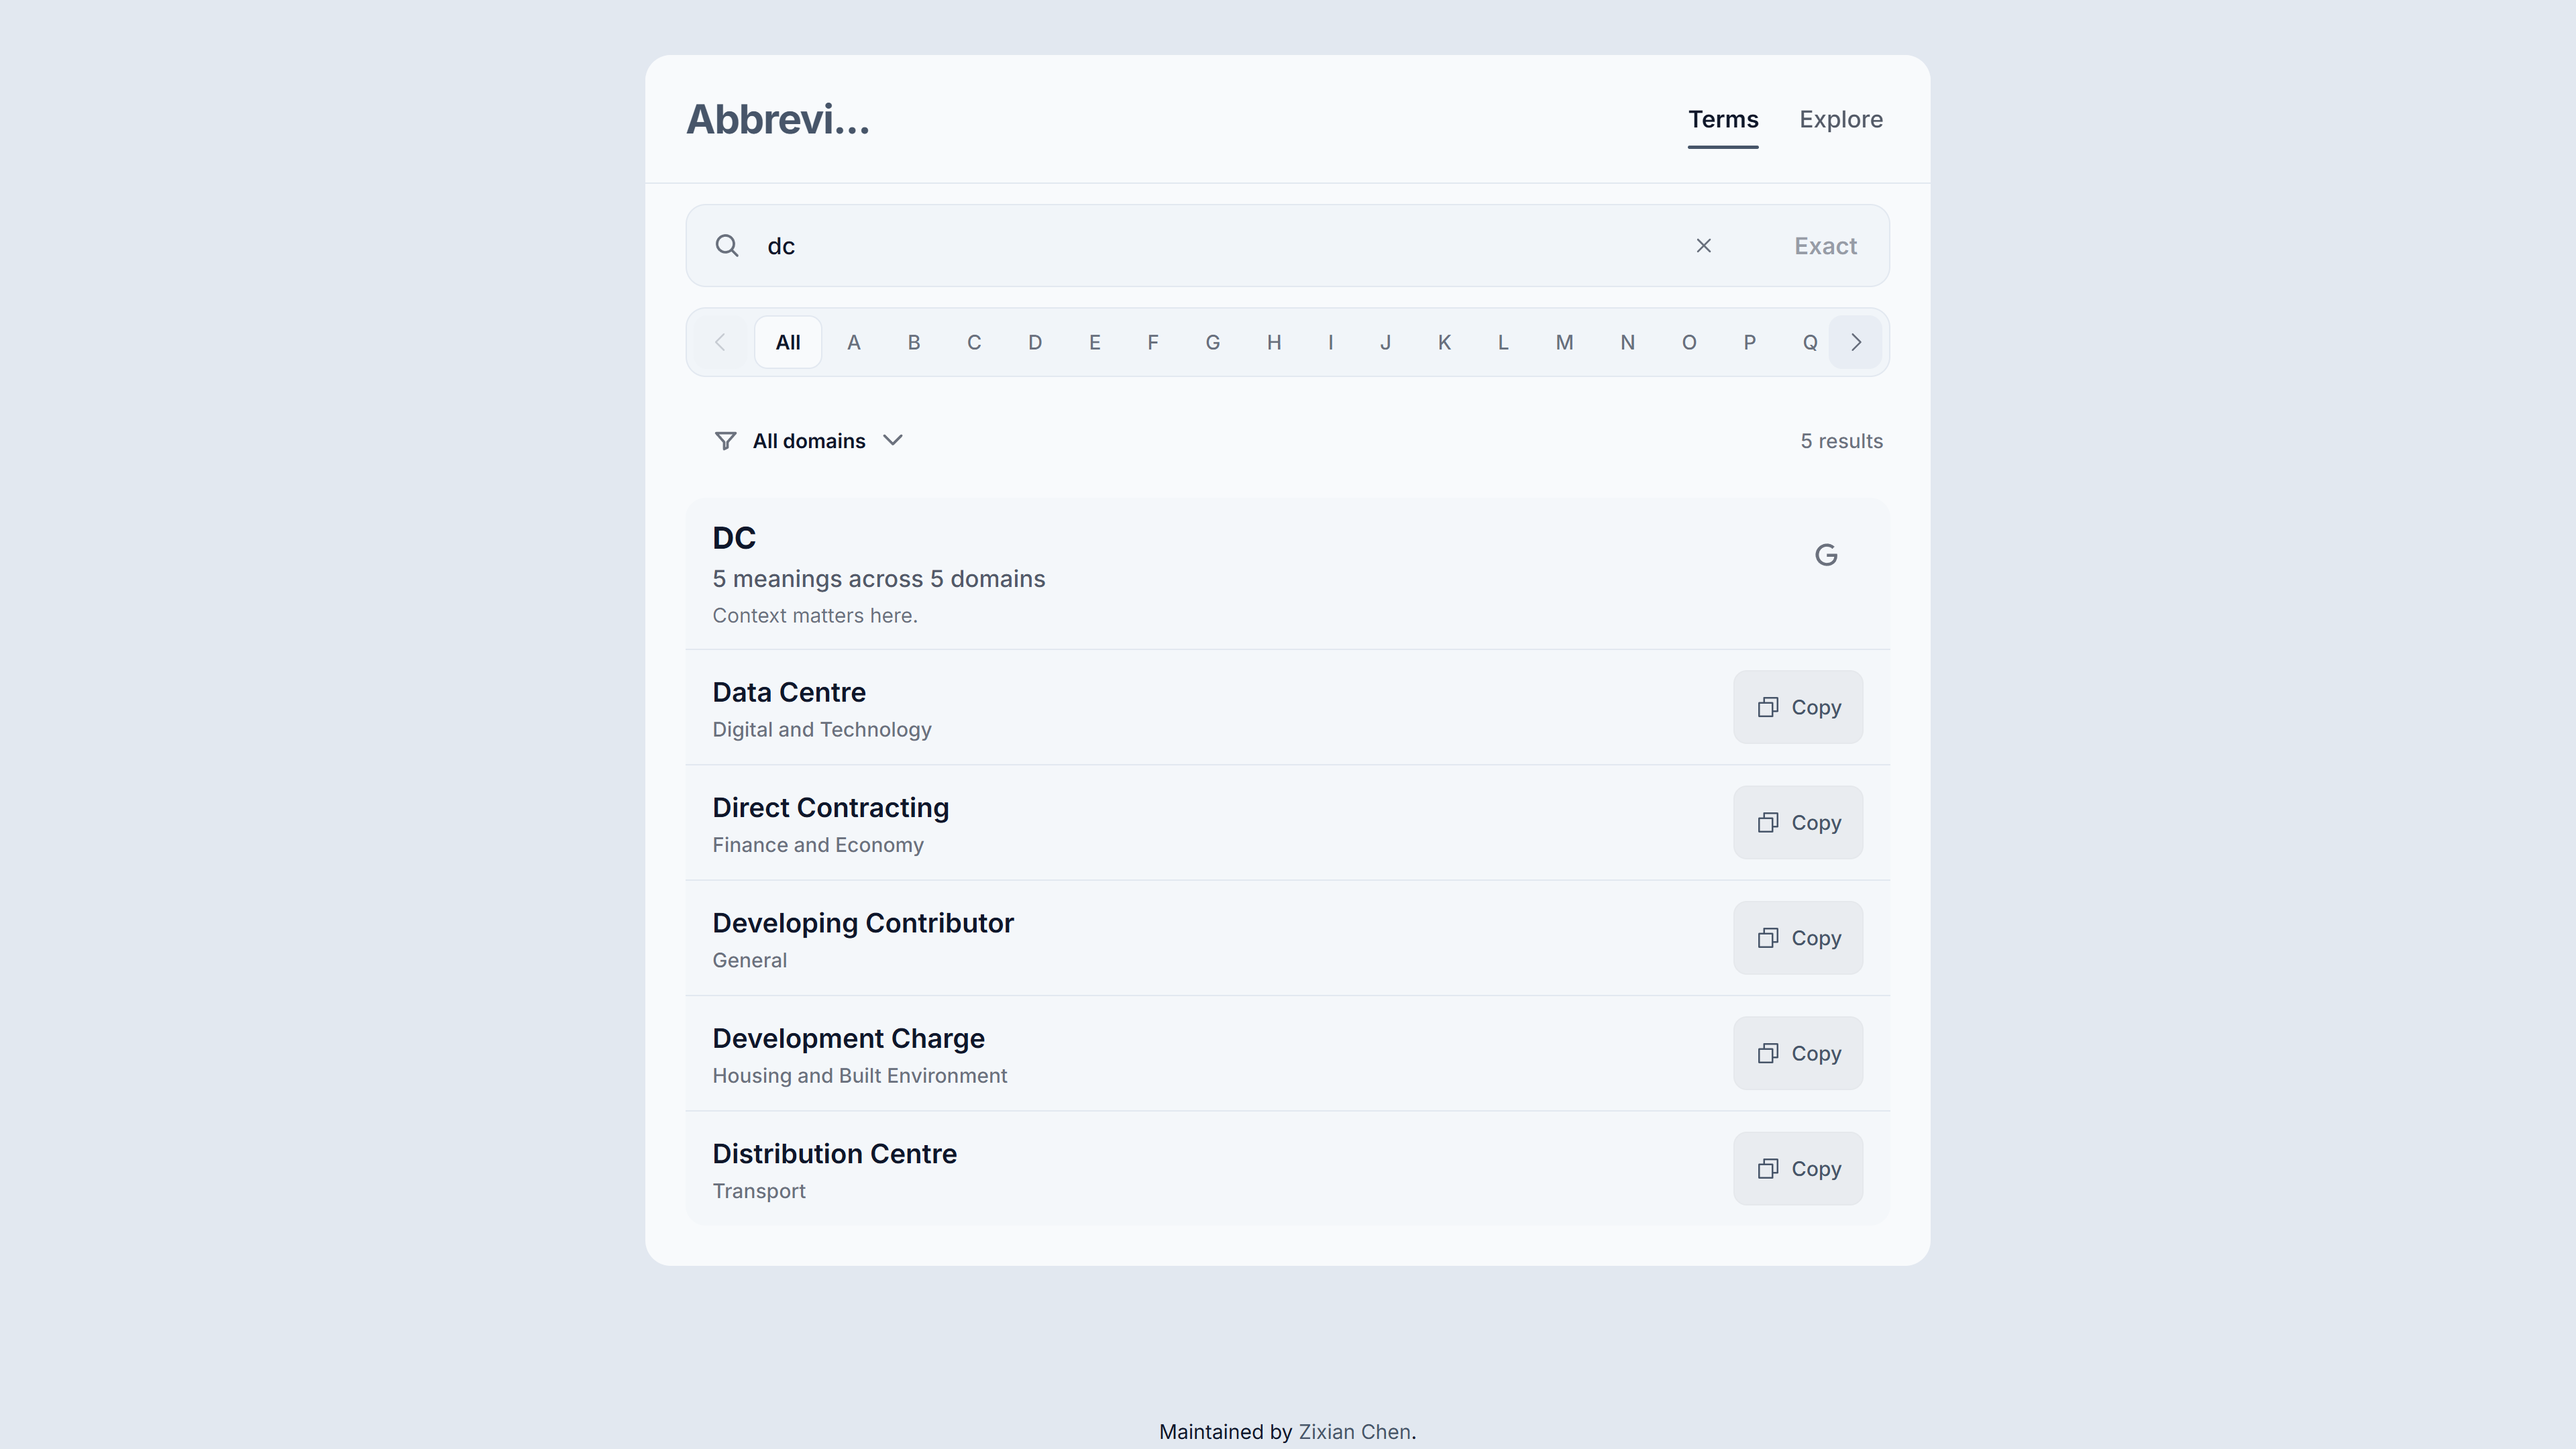
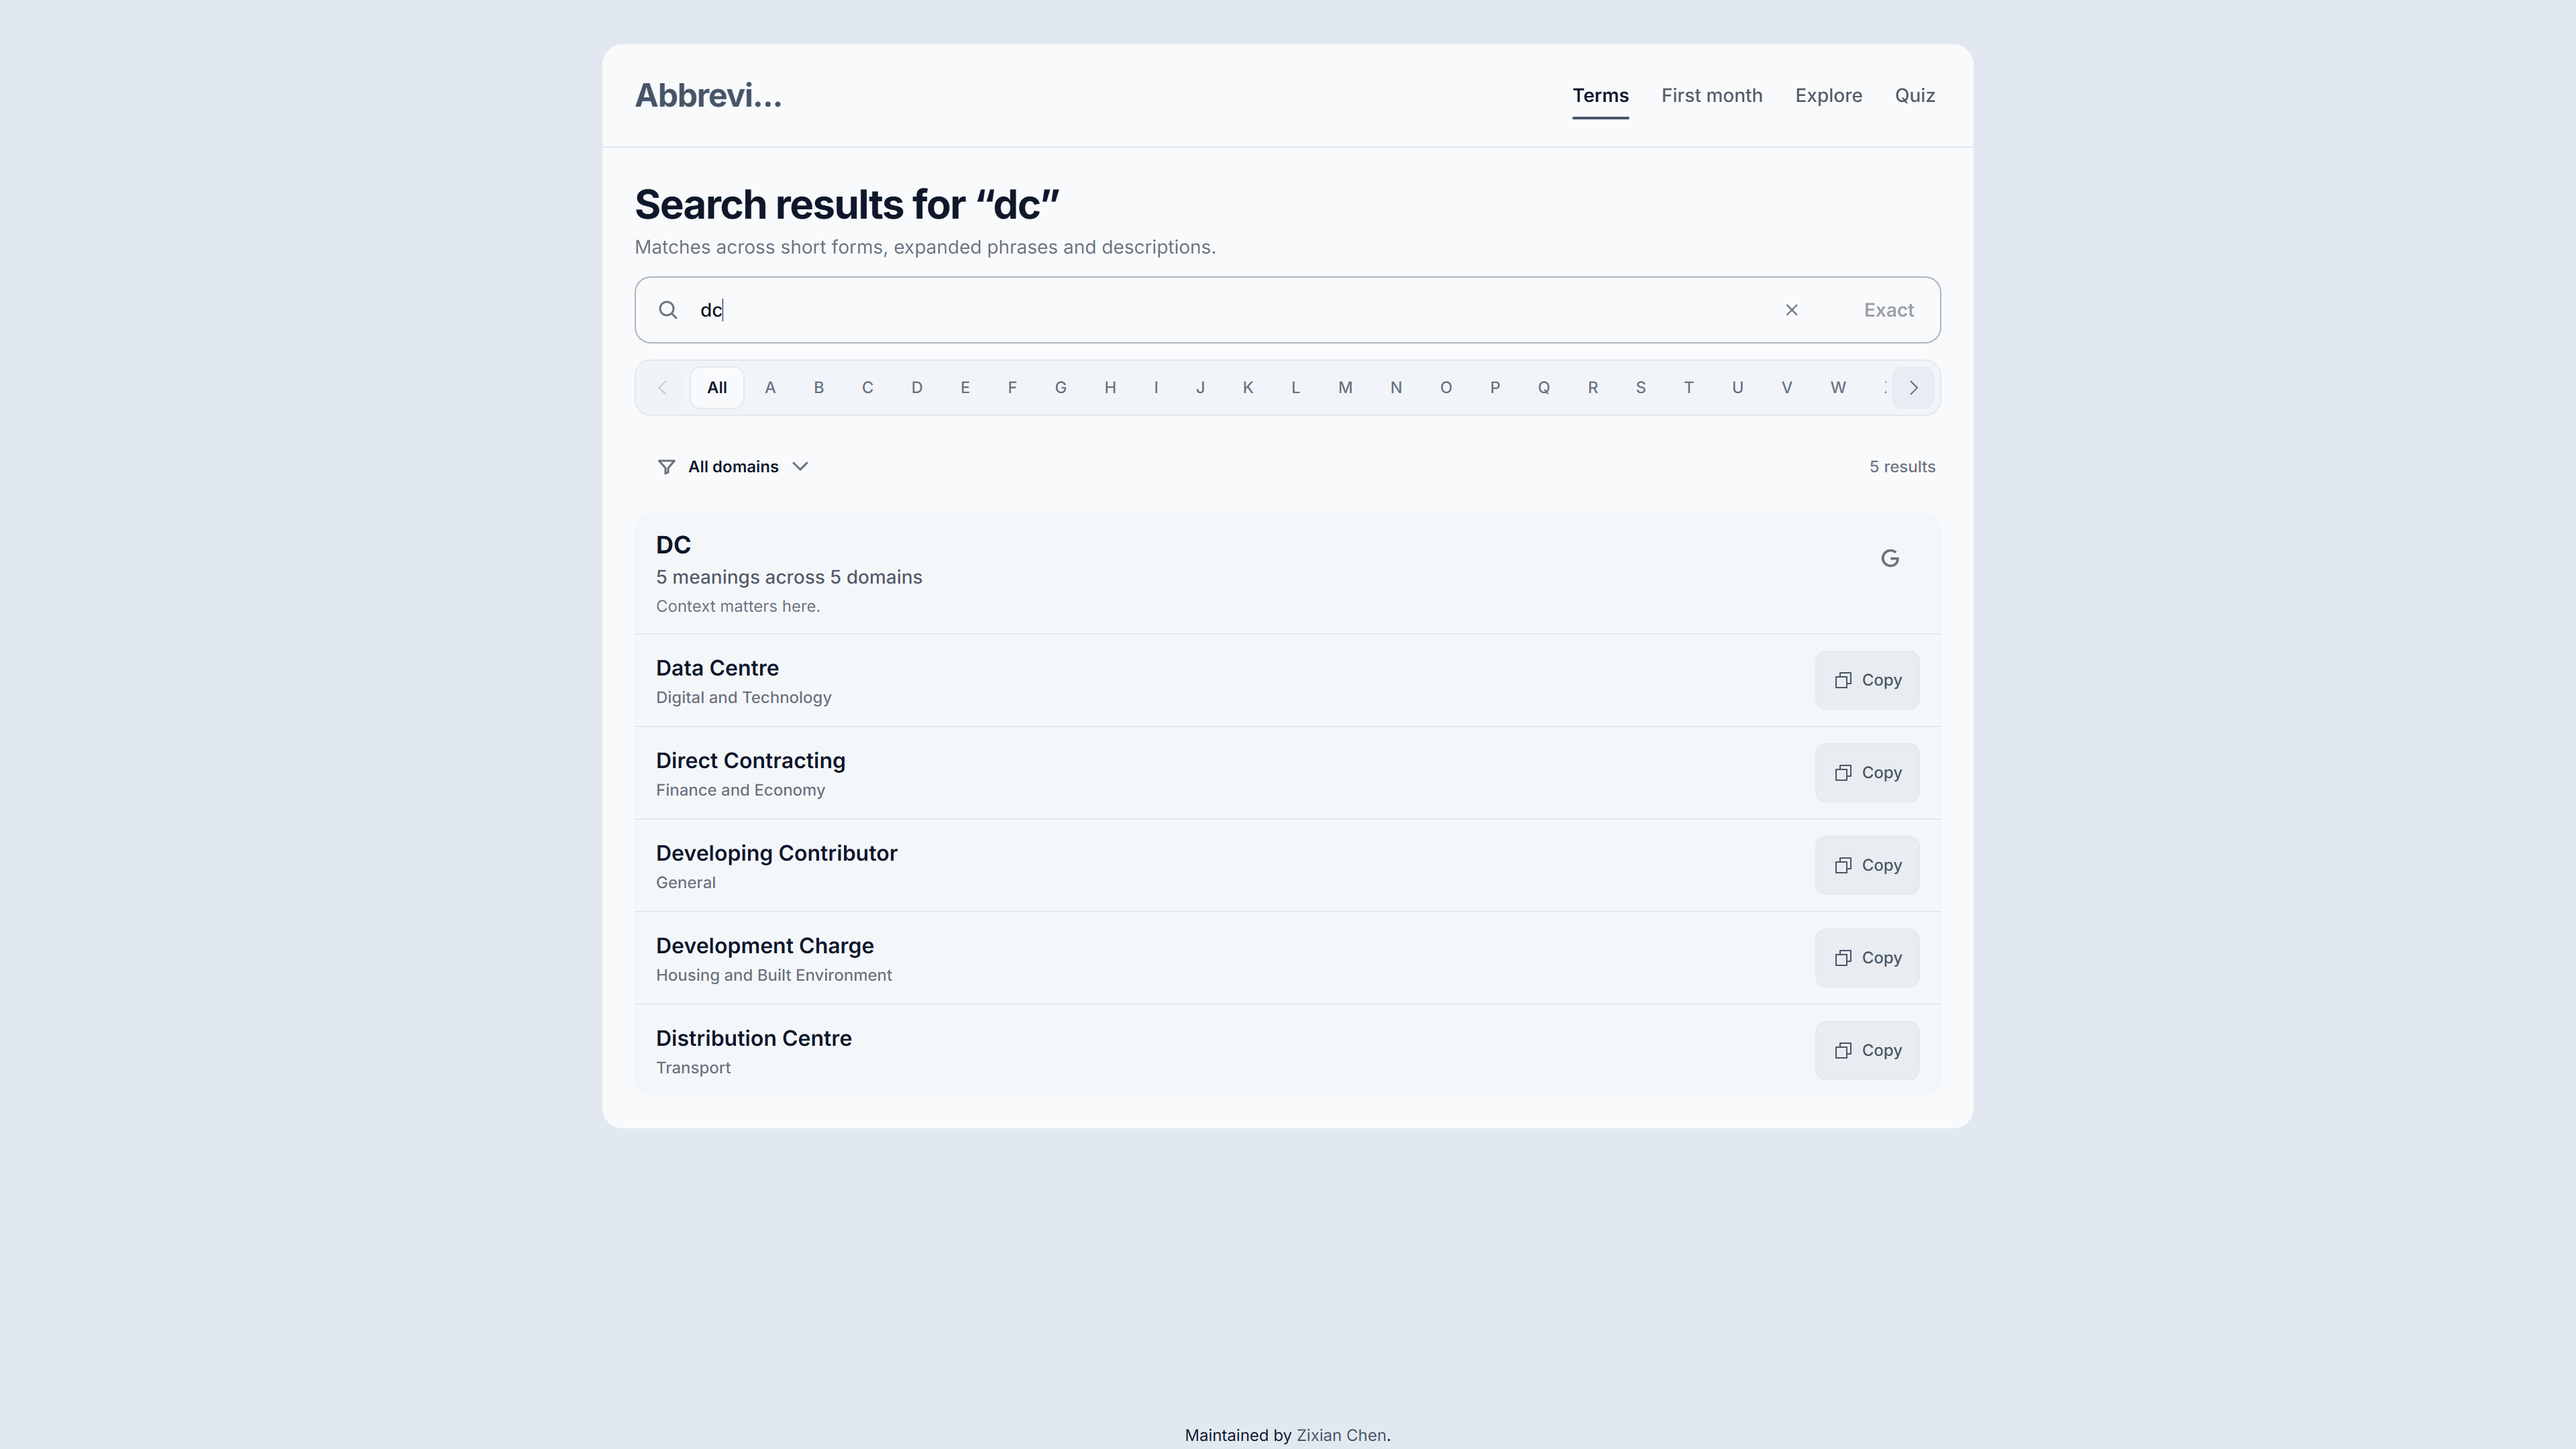
feat: expand abbreviation case study

diff --git a/src/routes/projects/abbreviation/+page.svelte b/src/routes/projects/abbreviation/+page.svelte
@@ -1,9 +1,12 @@
 <script>
 	import ProjectShell from '$lib/ProjectShell.svelte';
 	import AbbreviationHome from '$lib/screenshots/abbreviation/home.png?enhanced&w=1600';
+	import AbbreviationTerms from '$lib/screenshots/abbreviation/terms.png?enhanced&w=1600';
 	import AbbreviationSearch from '$lib/screenshots/abbreviation/search.png?enhanced&w=1600';
-	import AbbreviationExplore from '$lib/screenshots/abbreviation/explore.png?enhanced&w=1600';
-	import AbbreviationExploreHistory from '$lib/screenshots/abbreviation/explore2.png?enhanced&w=1600';
+	import AbbreviationExploreConstruction from '$lib/screenshots/abbreviation/explore3.png?enhanced&w=1600';
+	import AbbreviationExploreHistory from '$lib/screenshots/abbreviation/explore4.png?enhanced&w=1600';
+	import AbbreviationFirstMonth from '$lib/screenshots/abbreviation/first-month.png?enhanced&w=1600';
+	import AbbreviationQuiz from '$lib/screenshots/abbreviation/quiz.png?enhanced&w=1600';
 
 	const stack = [
 		{ role: 'Frontend', tools: 'HTMX, Templ' },
@@ -19,7 +22,7 @@
 	accentInk="#1e293b"
 	eyebrow="Singapore Government terminology"
 	headline="The glossary I wish I had when I started work."
-	sub="It began as a list of acronyms and gradually grew into a searchable reference for 3,500+ abbreviations, service names and other terms used across the Singapore Government."
+	sub="It began as a list of acronyms and grew into a searchable glossary of 3,500+ terms, with a first-month guide and quiz for new officers."
 	url="https://abbreviation.zixian.dev"
 	{stack}>
 	{#snippet wordmark()}
@@ -71,6 +74,10 @@
 				list.
 			</p>
 		</div>
+		<enhanced:img
+			src={AbbreviationTerms}
+			alt="Alphabetical glossary view showing 363 Singapore Government terms beginning with C"
+			class="border-neutral/20 mt-5 block w-full border-2 shadow-sm" />
 	</section>
 
 	<section class="border-neutral/10 border-t py-12">
@@ -98,7 +105,8 @@
 			<p>
 				Once the entries had subject areas, statuses and relationships, it seemed a waste to expose them only through a
 				search box. I added Explore to group the data in a few useful ways: terms with several meanings, abbreviations
-				used across different fields, similar-looking names and older terms alongside their replacements.
+				used across different fields, names built from within words, lookalikes and older terms alongside their
+				replacements.
 			</p>
 			<p>
 				It is mostly another way to browse data I already had, but it has made the project feel more like a glossary
@@ -107,8 +115,8 @@
 		</div>
 		<div class="mt-5 grid gap-5">
 			<enhanced:img
-				src={AbbreviationExplore}
-				alt="Explore view grouping similar-looking Singapore Government abbreviations"
+				src={AbbreviationExploreConstruction}
+				alt="Explore view highlighting how Singapore Government abbreviations are assembled from letters within words"
 				class="border-neutral/20 block w-full border-2 shadow-sm" />
 			<enhanced:img
 				src={AbbreviationExploreHistory}
@@ -118,11 +126,62 @@
 	</section>
 
 	<section class="border-neutral/10 border-t py-12">
+		<p class="text-xs tracking-wide" style="color: var(--accent-ink)">Coming back to onboarding</p>
+		<div class="text-base-content/85 mt-4 grid max-w-3xl gap-4 leading-relaxed">
+			<p class="text-2xl leading-snug font-bold">
+				Search helps once someone has a term to look up. New officers also need a way to build some familiarity before
+				they get stuck.
+			</p>
+			<p>
+				I returned to the original onboarding problem and curated 189 terms that a new officer is likely to encounter
+				early. Instead of presenting another long list, I organised them around seven workplace situations such as
+				writing and decisions, meetings, organisational roles, HR, procurement and everyday language.
+			</p>
+			<p>
+				The guide starts with 35 first-month essentials, five from each area, then lets someone search or browse the
+				wider collection when they need more context.
+			</p>
+		</div>
+		<enhanced:img
+			src={AbbreviationFirstMonth}
+			alt="First-month guide organised into seven workplace situations with 35 essential terms"
+			class="border-neutral/20 mt-5 block w-full border-2 shadow-sm" />
+	</section>
+
+	<section class="border-neutral/10 border-t py-12">
+		<p class="text-xs tracking-wide" style="color: var(--accent-ink)">A low-stakes way to practise</p>
+		<div class="text-base-content/85 mt-4 grid max-w-3xl gap-4 leading-relaxed">
+			<p>
+				I also added ten-question quiz rounds for practising recall. The first-month mode draws from the 35 essentials,
+				while a broader mode ranges across the current glossary.
+			</p>
+			<p>
+				Questions work in both directions, from an abbreviation to its meaning and back again. The quiz avoids terms
+				that could produce more than one correct answer, and missed answers return for review at the end.
+			</p>
+			<p>
+				I kept it deliberately lightweight: no account, timer or leaderboard. Completed-round totals stay only in the
+				browser.
+			</p>
+		</div>
+		<enhanced:img
+			src={AbbreviationQuiz}
+			alt="A first-month quiz question showing the correct short form and a plain-language explanation"
+			class="border-neutral/20 mt-5 block w-full border-2 shadow-sm" />
+	</section>
+
+	<section class="border-neutral/10 border-t py-12">
 		<p class="text-xs tracking-wide" style="color: var(--accent-ink)">Using LLMs to help with curation</p>
 		<div class="text-base-content/85 mt-4 grid max-w-3xl gap-4 leading-relaxed">
 			<p>
-				Adding terms and filling in their context by hand had become slow. LLM agents made it practical to search for
-				possible additions and draft metadata such as descriptions, subject areas, lifecycle status and sources.
+				Adding terms and filling in their context by hand had become slow. GPT-4.6 sol was especially useful here.
+				ChatGPT on the web and Codex had separate generous usage limits, which made it practical to keep moving between
+				them across a catalog of this size.
+			</p>
+			<p>
+				I used them as peer reviewers for each other across discovery, curation, validation and enrichment. One could
+				propose new terms or metadata such as descriptions, subject areas, lifecycle status and sources, then the other
+				could challenge the result, look for gaps and run another pass.
 			</p>
 			<p>
 				New and enriched entries go through an agent review pass followed by a scan from me. Source and verification

diff --git a/src/routes/Projects.svelte b/src/routes/Projects.svelte
@@ -60,7 +60,7 @@
 			pos: 'center',
 			stack: 'Go · htmx · embedded JSON',
 			facts: [
-				{ label: 'Status', value: 'Live terminology reference' },
+				{ label: 'Status', value: 'Live glossary and first-month guide' },
 				{
 					label: 'Problem',
 					value:
@@ -68,7 +68,7 @@
 				},
 				{
 					label: 'Outcome',
-					value: '3,500+ terms with contextual search and several ways to explore the glossary',
+					value: '3,500+ terms, including a 189-term first-month guide with 35 essentials and quiz practice',
 				},
 			],
 		},

diff --git a/src/lib/ProjectDescriptions.ts b/src/lib/ProjectDescriptions.ts
@@ -13,7 +13,7 @@ interface ProjectDescriptions {
 export const descriptions: ProjectDescriptions = {
 	abbreviation: {
 		name: 'Abbreviation',
-		subtitle: 'Search and explore Singapore Government terminology',
+		subtitle: 'A searchable glossary and first-month field guide',
 		url: 'https://abbreviation.zixian.dev',
 	},
 	appraize: {
